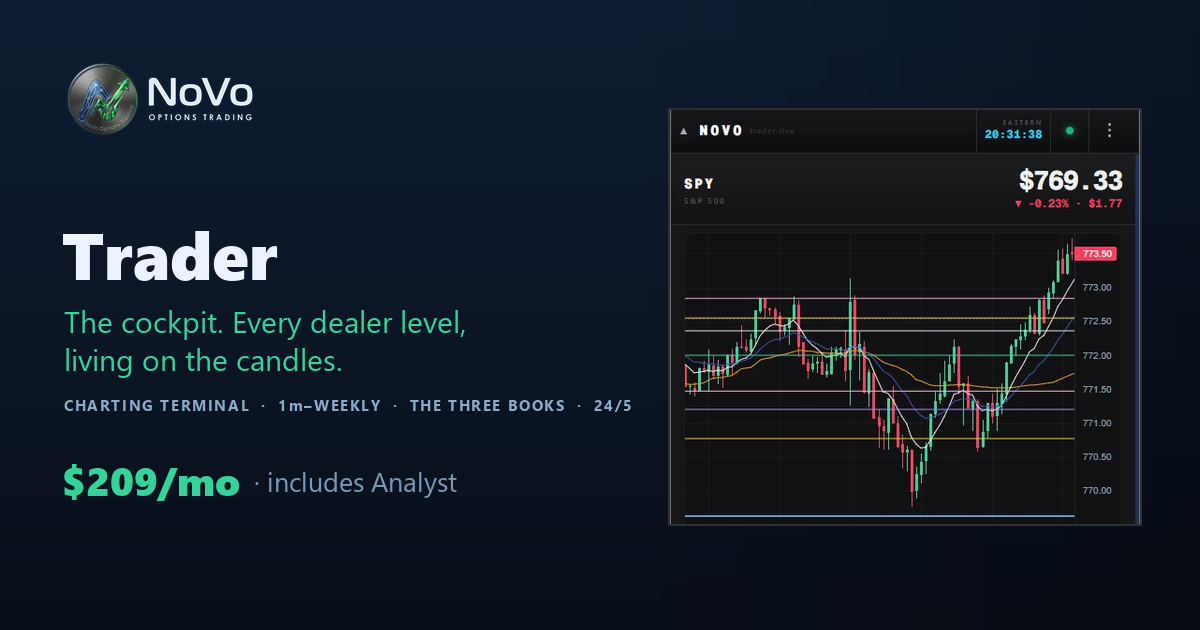
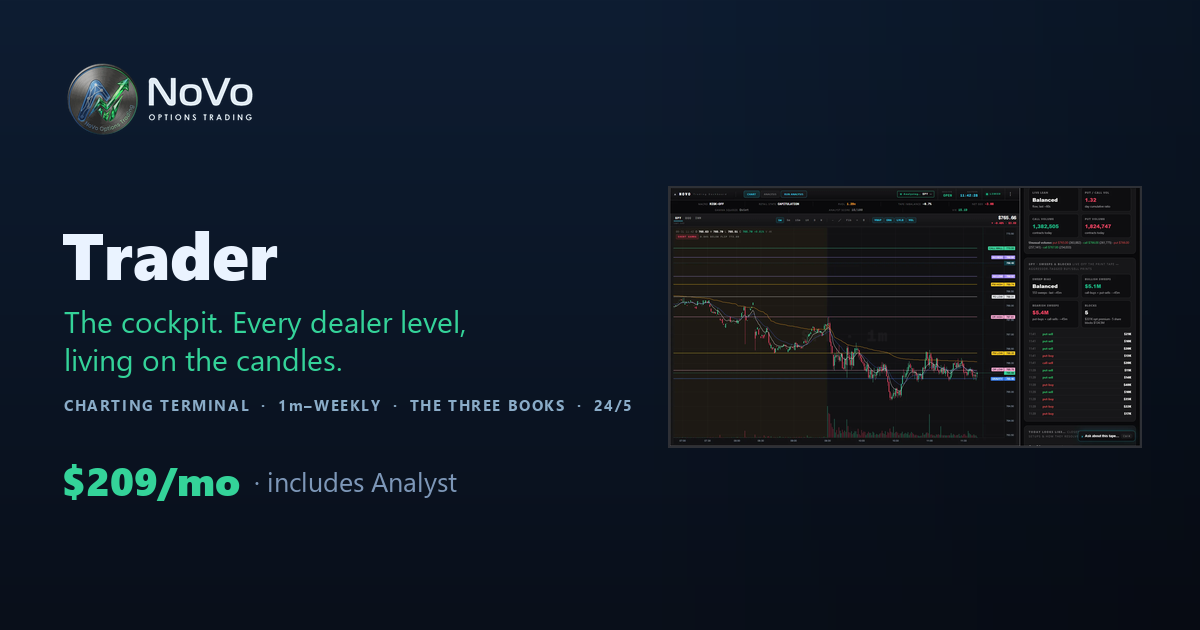
Fresh /trader UI shots (2026-08-31 terminal build) + cockpit OG card
All three mashup shots replaced with today's live-session captures --
desktop cockpit with the labelled level tags and the sweeps-and-blocks
flow rail, phone chart tab, phone analysis tab -- plus a NEW wide
Analysis-view shot after the How It Works grid: the visual proof of
cards 02 (the audit) and 03 (the record) -- Three Books and What NoVo
Knows on one screen. Alts rewritten for what the shots now show, ?v=2.

og-trader now builds from the DESKTOP shot: 'the cockpit' was showing a
phone shot cropped to its empty top third; the wide terminal fits the
card whole, vertically centered. og:image bumped v=7 for re-scrape.

Changed region(s): [[0.555, 0.1508, 0.9558, 0.8444]]

diff --git a/public/trader.html b/public/trader.html
@@ -36,7 +36,7 @@ j.src='https://www.googletagmanager.com/gtm.js?id='+i+dl;f.parentNode.insertBefo
 <link rel="icon" href="/icon-192.png?v=7">
 <link rel="apple-touch-icon" href="/apple-touch-icon.png?v=5">
 <meta name="theme-color" content="#121316">
-<meta property="og:image" content="https://novo-options.trade/og-trader.png?v=6">
+<meta property="og:image" content="https://novo-options.trade/og-trader.png?v=7">
 <meta property="og:image:width" content="1200">
 <meta property="og:image:height" content="630">
 <meta name="twitter:card" content="summary_large_image">
@@ -44,7 +44,7 @@ j.src='https://www.googletagmanager.com/gtm.js?id='+i+dl;f.parentNode.insertBefo
 <meta name="twitter:creator" content="@0dte_NoVo">
 <meta name="twitter:title" content="NoVo | SPY, QQQ & IWM Scalping Made Easy — The Live Dealer Map">
 <meta name="twitter:description" content="Every dealer level on SPY, QQQ & IWM drawn on a live chart as it moves, with NoVo's hourly audit and its own record on the setup in front of you.">
-<meta name="twitter:image" content="https://novo-options.trade/og-trader.png?v=6">
+<meta name="twitter:image" content="https://novo-options.trade/og-trader.png?v=7">
 <link rel="canonical" href="https://novo-options.trade/trader">
 <link rel="preconnect" href="https://fonts.googleapis.com">
 <link rel="preconnect" href="https://fonts.gstatic.com" crossorigin>
@@ -59,7 +59,7 @@ j.src='https://www.googletagmanager.com/gtm.js?id='+i+dl;f.parentNode.insertBefo
       "name": "NoVo Options Trading",
       "url": "https://novo-options.trade",
       "logo": "https://novo-options.trade/novo-logo.png",
-      "image": "https://novo-options.trade/og-trader.png?v=6",
+      "image": "https://novo-options.trade/og-trader.png?v=7",
       "description": "Trader draws every dealer level on SPY, QQQ & IWM on a live chart as it moves — gamma flip, call and put walls, VWAP, expected move — with NoVo's hourly structural audit and its own logged record on the setup beside it.",
       "email": "support@novo-options.trade",
       "sameAs": [
@@ -86,7 +86,7 @@ j.src='https://www.googletagmanager.com/gtm.js?id='+i+dl;f.parentNode.insertBefo
       "applicationCategory": "FinanceApplication",
       "operatingSystem": "Web",
       "description": "SPY, QQQ & IWM options scalping made easy — an AI market analyst that draws every dealer level on your live chart, reads the tape all day, audits the structure every hour, and shows what its own record says the setup has done before.",
-      "image": "https://novo-options.trade/og-trader.png?v=6",
+      "image": "https://novo-options.trade/og-trader.png?v=7",
       "url": "https://novo-options.trade",
       "sameAs": [
         "https://x.com/0dte_NoVo",
@@ -612,10 +612,10 @@ nav { position: relative; }
 </style>
 
     <div class="hero-mashup">
-      <div class="hm-back"><img src="/screenshots/trader-live-desk.webp?v=1" width="1905" height="1049" alt="The Trader dashboard &mdash; the live SPY scalping chart with every dealer level drawn and labelled on it, beside the full dealer-positioning read: net GEX and the regime, call wall, gamma flip, spot, gravity, put wall, the expected move, put/call skew, vanna and charm, and what this setup has historically resolved to" loading="eager" fetchpriority="high" decoding="async"></div>
+      <div class="hm-back"><img src="/screenshots/trader-live-desk.webp?v=2" width="1905" height="1047" alt="The Trader terminal &mdash; the live SPY 1-minute chart with every dealer level drawn and price-labelled in the pane: call wall, gravity, opening range, pre-market and after-hours levels, VWAP and the EMAs &mdash; beside the live options-flow rail: put/call volume, unusual strikes, and the sweeps-and-blocks print tape with aggressor-tagged buys and sells" loading="eager" fetchpriority="high" decoding="async"></div>
       <div class="hm-fan">
-        <div class="hm-card" style="transform:rotate(-11deg) ;z-index:4;"><img src="/screenshots/trader-live-chart.webp?v=1" width="502" height="1044" alt="Trader on a phone &mdash; the chart tab &mdash; the live scalping chart with the dealer levels drawn on it, market intel, and every chart level listed with its price" loading="lazy" decoding="async"></div>
-        <div class="hm-card" style="transform:rotate(9deg) translateY(16px);z-index:3;margin-left:-46px;"><img src="/screenshots/trader-live-analysis.webp?v=1" width="502" height="1044" alt="Trader on a phone &mdash; the analysis tab &mdash; the structural audit with its identified levels, observed patterns and written thesis, and what NoVo knows about this setup" loading="lazy" decoding="async"></div>
+        <div class="hm-card" style="transform:rotate(-11deg) ;z-index:4;"><img src="/screenshots/trader-live-chart.webp?v=2" width="495" height="1042" alt="Trader on a phone &mdash; the chart tab &mdash; the live 1-minute scalping chart with the dealer levels and short-gamma read drawn on it, and Market Intel beneath: VIX, macro regime, retail state, relative volume and tape imbalance" loading="lazy" decoding="async"></div>
+        <div class="hm-card" style="transform:rotate(9deg) translateY(16px);z-index:3;margin-left:-46px;"><img src="/screenshots/trader-live-analysis.webp?v=2" width="500" height="1047" alt="Trader on a phone &mdash; the analysis tab &mdash; the top-of-hour structural audit with its bias, identified levels, observed patterns and written thesis, NoVo's pre-market primer, and 'The Line' level-break playbook" loading="lazy" decoding="async"></div>
       </div>
     </div>
     <p style="font-size:11px;color:var(--txt3);text-align:center;margin:18px auto 34px;">The dashboard and the phone app &mdash; the whole dealer map, drawn on the tape as it moves.</p>
@@ -817,6 +817,13 @@ nav { position: relative; }
         <p>Use it when the tape breaks a level, when a wall gets taken out, or when you simply want the current read before you commit to anything.</p>
       </div>
     </div>
+
+    <!-- The desk's ANALYSIS view — the visual proof of cards 02 and 03 above: the hourly audit,
+         the Three Books, and What NoVo Knows with its sample sizes, all on one live screen. -->
+    <div class="hm-back" style="max-width:900px;margin:38px auto 0;transform:none;">
+      <img src="/screenshots/trader-live-desk-analysis.webp?v=2" width="1903" height="1054" alt="The Trader terminal's Analysis view &mdash; the top-of-hour structural audit and NoVo's pre-market primer, 'The Line' level-break playbooks, the Three Books showing SPY, QQQ and IWM dealer structure side by side down to skew and the market-maker hedging split, and What NoVo Knows: the setup's own logged record with sample sizes" loading="lazy" decoding="async">
+    </div>
+    <p style="font-size:11px;color:var(--txt3);text-align:center;margin:14px auto 0;">The Analysis view &mdash; the audit, the Three Books, and the setup&rsquo;s own record, one screen.</p>
 
     <!-- SCREENSHOT GALLERY — restored 2026-06-26 with v4.3 blurred shots (rebuilt by build_shots.py). -->
     <p style="text-align:center;font-size:13px;color:var(--txt2);margin:44px auto 0;max-width:640px;letter-spacing:.4px;font-weight:600;">Installs like an app on desktop &amp; mobile — add the dashboard to your home screen and run the whole system like a native app. No app store, no download.</p>

diff --git a/scripts/make-og-cards.py b/scripts/make-og-cards.py
@@ -186,12 +186,16 @@ card('og-crypto.png', 'Crypto Market Map',
 
 # ---- Trader: the cockpit (2026-08-31 — the old card sold one-click entry and auto exits, the
 # retired execution product; Jake caught it in a Discord embed. The real terminal is the shot.) ----
-tshot = Image.open(os.path.join(PUB, 'screenshots', 'trader-live-chart.webp')).convert('RGBA')
+# The DESKTOP shot (2026-08-31): "the cockpit" should show the cockpit, and the wide terminal
+# fits the card whole — chart, labelled levels, flow rail — where a phone shot cropped to its
+# empty top third. Padded to the analyst card's 418px band so it sits vertically centered.
+tshot = Image.open(os.path.join(PUB, 'screenshots', 'trader-live-desk.webp')).convert('RGBA')
 tw2 = 470
 tshot = tshot.resize((tw2, round(tshot.height * tw2 / tshot.width)), Image.LANCZOS)
-tshot = tshot.crop((0, 0, tw2, min(tshot.height, 414)))
-tframed = Image.new('RGBA', (tshot.width + 4, tshot.height + 4), (0x2e, 0x30, 0x36, 255))
-tframed.paste(tshot, (2, 2))
+_tf = Image.new('RGBA', (tshot.width + 4, tshot.height + 4), (0x2e, 0x30, 0x36, 255))
+_tf.paste(tshot, (2, 2))
+tframed = Image.new('RGBA', (_tf.width, 418), (0, 0, 0, 0))
+tframed.paste(_tf, (0, (418 - _tf.height) // 2))
 
 card('og-trader.png', 'Trader', 'The cockpit. Every dealer level,' + chr(10) + 'living on the candles.',
      'CHARTING TERMINAL  ·  1m–WEEKLY  ·  THE THREE BOOKS  ·  24/5',
